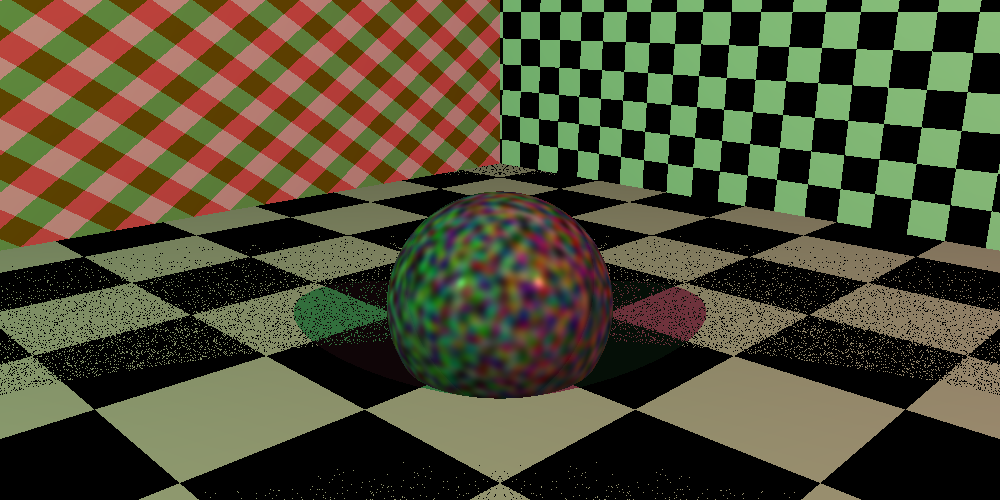
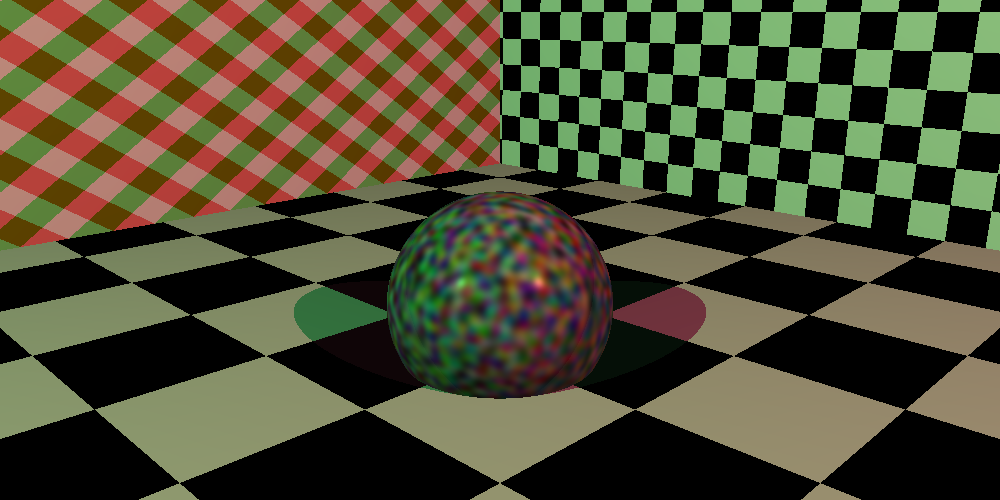
fix Acne regression

diff --git a/pkg/scene/scene.go b/pkg/scene/scene.go
@@ -85,10 +85,10 @@ func (s *Scene) Cast(r ray.Ray) color.Color {
 		mat := xs.Hit.Entity.GetMaterial()
 		for _, l := range s.lights {
 			if s.Obstructed(xs.Hit.OverPoint, l.Position()) {
-				contribution := lighting.PhongShadow(mat, l, xs.Hit.Point, xs.Hit.EyeVector, xs.Hit.Normal)
+				contribution := lighting.PhongShadow(mat, l, xs.Hit.OverPoint, xs.Hit.EyeVector, xs.Hit.Normal)
 				c = c.Add(contribution)
 			} else {
-				contribution := lighting.Phong(mat, l, xs.Hit.Point, xs.Hit.EyeVector, xs.Hit.Normal)
+				contribution := lighting.Phong(mat, l, xs.Hit.OverPoint, xs.Hit.EyeVector, xs.Hit.Normal)
 				c = c.Add(contribution)
 			}
 

diff --git a/pkg/shaders/shaders.go b/pkg/shaders/shaders.go
@@ -60,7 +60,7 @@ func Rings(a, b core.Shader) core.Shader {
 func Cubes(a, b core.Shader) core.Shader {
 	return func(p math.Point) color.Color {
 		sumfloors := m.Floor(p.X()) + m.Floor(p.Y()) + m.Floor(p.Z())
-		if utils.AlmostEqual(m.Mod(sumfloors, 2), 0.0) {
+		if utils.AlmostEqual(m.Mod(sumfloors, 2.0), 0.0) {
 			return a(p)
 		}
 		return b(p)
